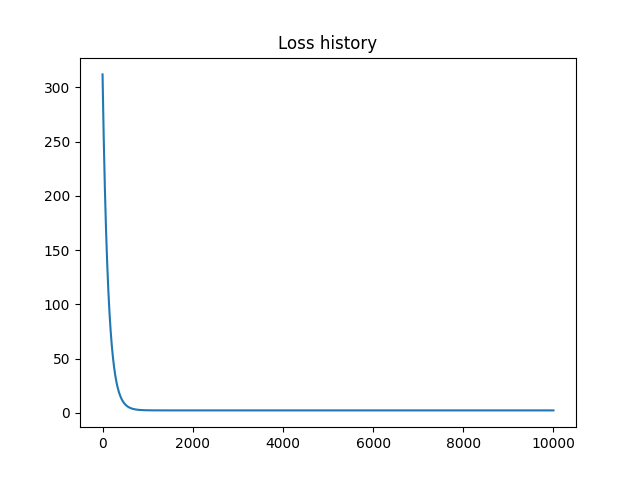
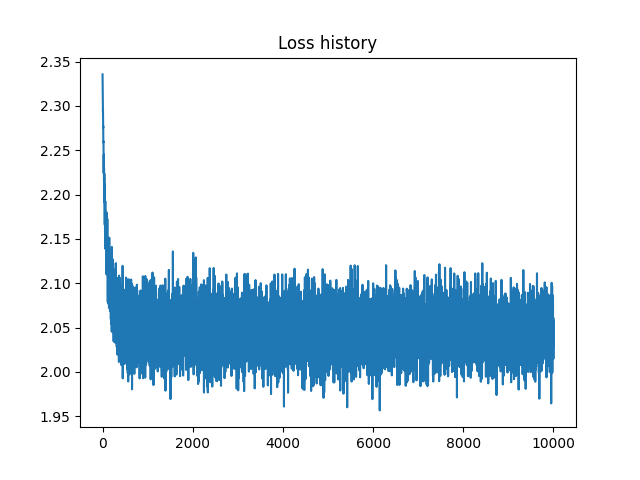
Model training successfully

diff --git a/src/seminar2.py b/src/seminar2.py
@@ -1,7 +1,7 @@
 # Seminar 2. Softmax classifier.
 import datetime
-import os.path
 import numpy as np
+import os
 from src.test_utils import get_preprocessed_data, visualize_weights, visualize_loss
 
 
@@ -9,7 +9,7 @@ def softmax(z: np.array) -> np.array:
     """
     TODO 1:
     Compute softmax of 2D array along axis -1
-    :param X: 2D array, shape (N, C)
+    :param z: 2D array, shape (N, C)
     :return: softmax 2D array, shape (N, C)
     """
     exp = np.exp(z)
@@ -94,7 +94,8 @@ class SoftmaxClassifier:
             # replacement is faster than sampling without replacement.              #
             #########################################################################
             # *****START OF YOUR CODE (DO NOT DELETE/MODIFY THIS LINE)*****
-
+            batch_ind = np.random.choice(num_train, size=batch_size, replace=True)
+            X_batch, y_batch = X[batch_ind, :], y[batch_ind]
             # *****END OF YOUR CODE (DO NOT DELETE/MODIFY THIS LINE)*****
 
             # evaluate loss and gradient
@@ -107,7 +108,7 @@ class SoftmaxClassifier:
             # Update the weights using the gradient and the learning rate.          #
             #########################################################################
             # *****START OF YOUR CODE (DO NOT DELETE/MODIFY THIS LINE)*****
-
+            self.W -= learning_rate * grad
             # *****END OF YOUR CODE (DO NOT DELETE/MODIFY THIS LINE)*****
             if it % 100 == 0:
                 if verbose:
@@ -139,10 +140,10 @@ def train():
     # weights images must look like in lecture slides
 
     # ***** START OF YOUR CODE *****
-    learning_rate = 0
-    reg = 0
-    num_iters = 0
-    batch_size = 0
+    learning_rate = 0.001
+    reg = 0.1
+    num_iters = 10000
+    batch_size = 512
     # ******* END OF YOUR CODE ************
 
     (x_train, y_train), (x_test, y_test) = get_preprocessed_data()
@@ -171,7 +172,7 @@ Test accuracy: {cls.evaluate(x_test, y_test)}
 
     print(report)
 
-    out_dir = 'output/seminar2'
+    out_dir = r'C:\Users\Вячеслав\PycharmProjects\neuralnets\output\seminar2'
     report_path = os.path.join(out_dir, 'report.md')
     with open(report_path, 'w') as f:
         f.write(report)

diff --git a/output/seminar2/report.md b/output/seminar2/report.md
@@ -1,14 +1,14 @@
 # Training Softmax classifier  
-datetime: 2023-09-05 20:00:50  
-Well done in: 24 seconds  
-learning_rate = 0  
-reg = 0  
-num_iters = 0  
-batch_size = 0  
+datetime: 2023-09-30 11:13:04  
+Well done in: 152 seconds  
+learning_rate = 0.001  
+reg = 0.1  
+num_iters = 10000  
+batch_size = 512  
 
-Final loss: 2.3024465755633834   
-Train accuracy: 0.24694   
-Test accuracy: 0.2496  
+Final loss: 2.0542734166543304   
+Train accuracy: 0.34484   
+Test accuracy: 0.346  
     
 <img src="weights.png">  
 <br>
